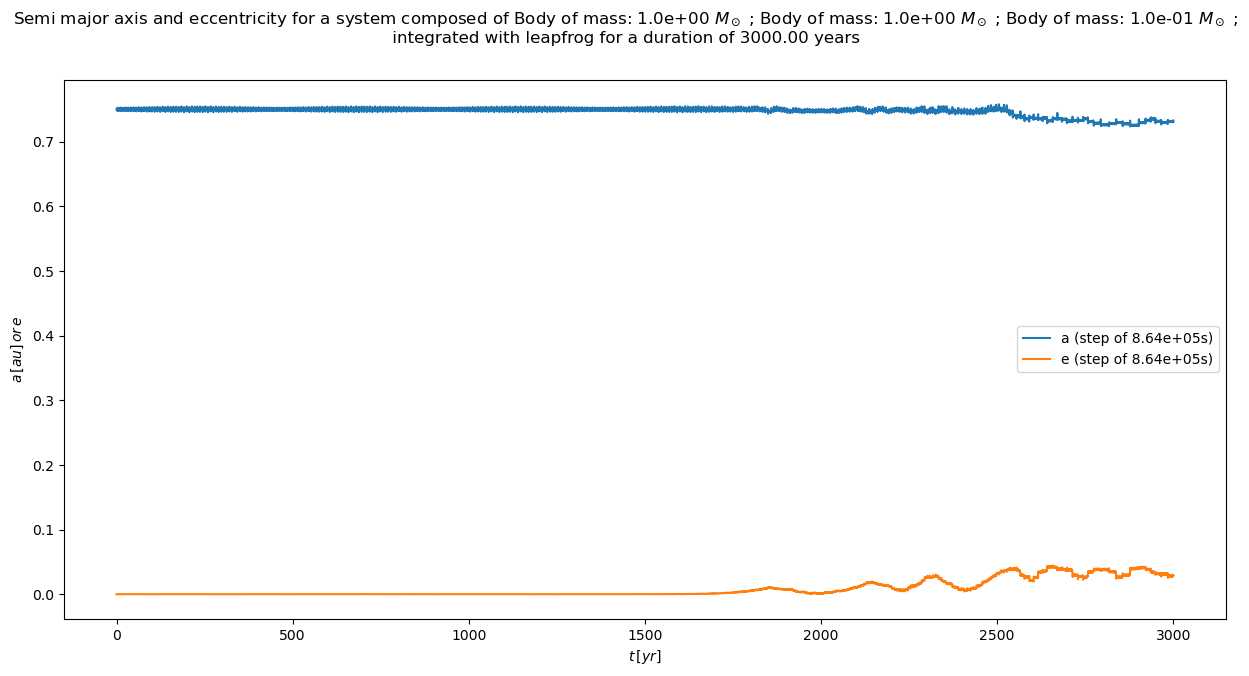
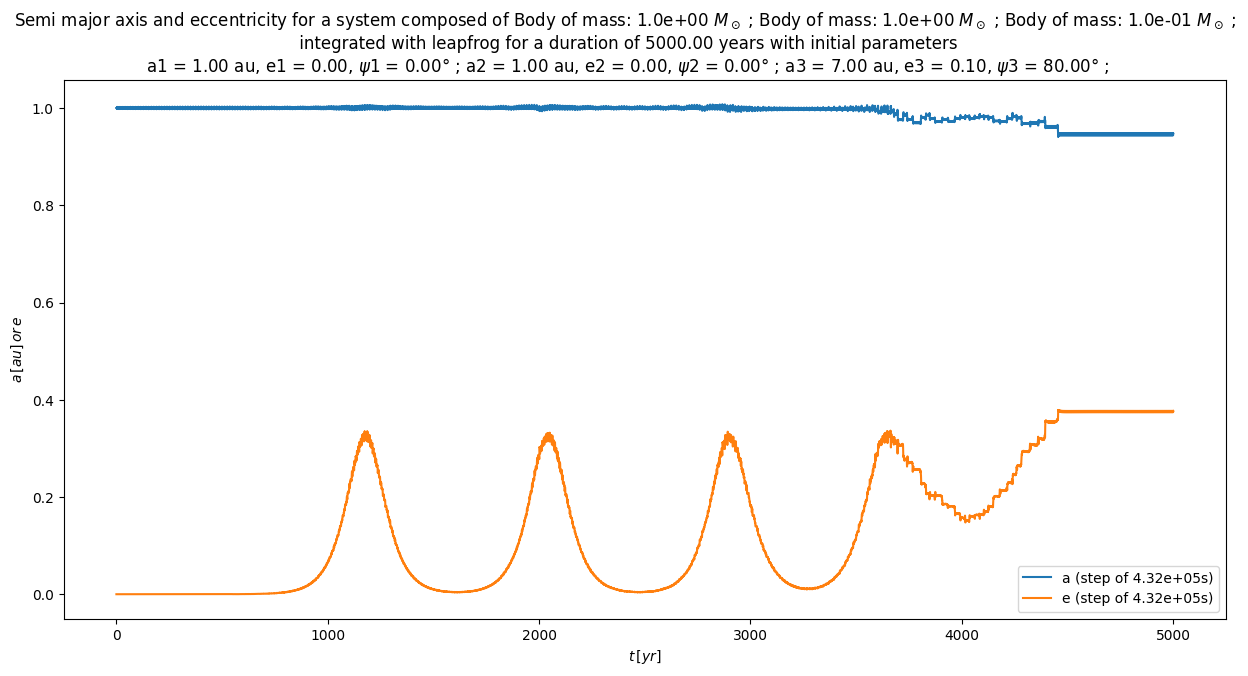
we did it !

diff --git a/lib/plots.py b/lib/plots.py
@@ -134,11 +134,12 @@ def display_parameters(E,L,sma,ecc,phi,parameters,savename="",display_param=True
     Save integrated parameters plots to multiple png files.
     -----
     Inputs:
-    E, L, sma, ecc, phi : list of np.ndarray
+    E, L, sma, ecc, phi: list of np.ndarray
         list of integrated parameters value computed for each step length in
         parameters[step] list.
     parameters : list
-        list of simulation parameters : duration, steps, system, integrator.
+        list of simulation parameters : duration, steps, system, integrator,
+        and initialisation parameters.        
     savename : str
         default savename that will be prepend to each saved file path.
         Default to empty string.
@@ -148,11 +149,14 @@ def display_parameters(E,L,sma,ecc,phi,parameters,savename="",display_param=True
     """
     if savename != "":
         savename += "_"
-    duration, step, dyn_syst, integrator = parameters
+    duration, step, dyn_syst, integrator, init = parameters
+    a, e, psi = init
     bodies = ""
-    for body in dyn_syst.bodylist:
+    init_str = ""
+    for i, body in enumerate(dyn_syst.bodylist):
         bodies += str(body)+" ; "
-    title1, title2 = "Relative difference of the {0:s} ","for a system composed of {0:s}\n integrated with {1:s} for a duration of {2:.2f} years ".format(bodies, integrator, duration/yr)
+        init_str += r"a{0:d} = {1:.2f} au, e{0:d} = {2:.2f}, $\psi${0:d} = {3:.2f}° ; ".format(i+1,a[i]/au,e[i],psi[i]*180./np.pi)
+    title1, title2 = "Relative difference of the {0:s} ","for a system composed of {0:s}\n integrated with {1:s} for a duration of {2:.2f} years with initial parameters\n {3:s}".format(bodies, integrator, duration/yr, init_str)
 
     fig1 = plt.figure(figsize=(15,7))
     ax1 = fig1.add_subplot(111)

diff --git a/main.py b/main.py
@@ -12,8 +12,8 @@ from lib.units import *
 def main():
     #initialisation
     m = np.array([1., 1., 1e-1],dtype=np.longdouble)*Ms#/Ms  # Masses in Solar mass
-    a = np.array([.75, .75, 5.],dtype=np.longdouble)*au#/au   # Semi-major axis in astronomical units
-    e = np.array([0., 0., 0.25],dtype=np.longdouble)   # Eccentricity
+    a = np.array([1.0, 1.0, 7.0],dtype=np.longdouble)*au#/au   # Semi-major axis in astronomical units
+    e = np.array([0., 0., 0.10],dtype=np.longdouble)   # Eccentricity
     psi = np.array([0., 0., 80.],dtype=np.longdouble)*np.pi/180.    # Inclination of the orbital plane in degrees
 
     x1 = np.array([0., -1., 0.],dtype=np.longdouble)*a[0]*(1.+e[0])
@@ -27,7 +27,7 @@ def main():
     v = np.array([v1, v2, v3],dtype=np.longdouble)
 
     #integration parameters
-    duration, step = 1000*yr, np.longdouble(1./2.*86400.) #integration time and step in seconds
+    duration, step = 5000*yr, np.longdouble(5./1.*86400.) #integration time and step in seconds
     integrator = "leapfrog"
     n_bodies = 3
     display = False
@@ -47,7 +47,7 @@ def main():
     elif integrator.lower() in ['hermite','herm']:
         E, L, sma, ecc, phi = hermite(dyn_syst, bin_syst, duration, step, recover_param=True, display=display, savename=savename, gif=gif)
 
-    parameters = [duration, [step], dyn_syst, integrator]
+    parameters = [duration, [step], dyn_syst, integrator, [a, e, psi]]
     display_parameters([E], [L], [sma], [ecc], [phi], parameters=parameters, savename=savename, display_param=display_param)
     return 0
 
